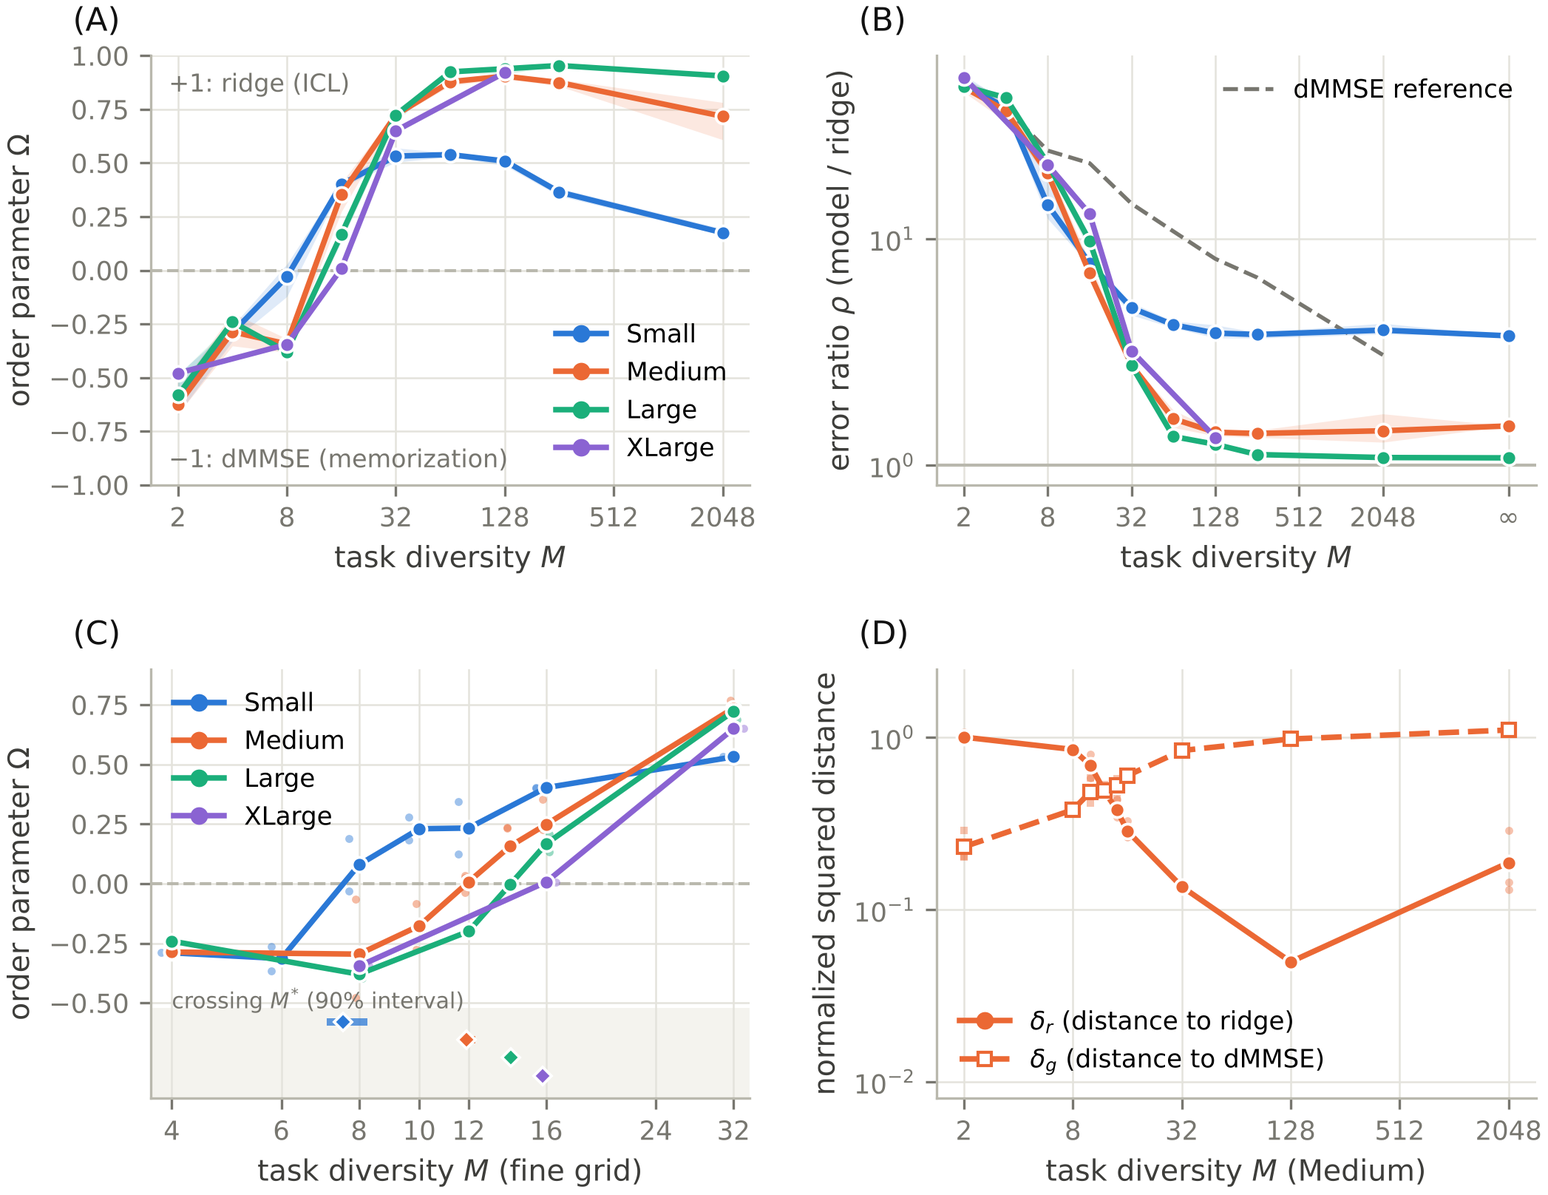
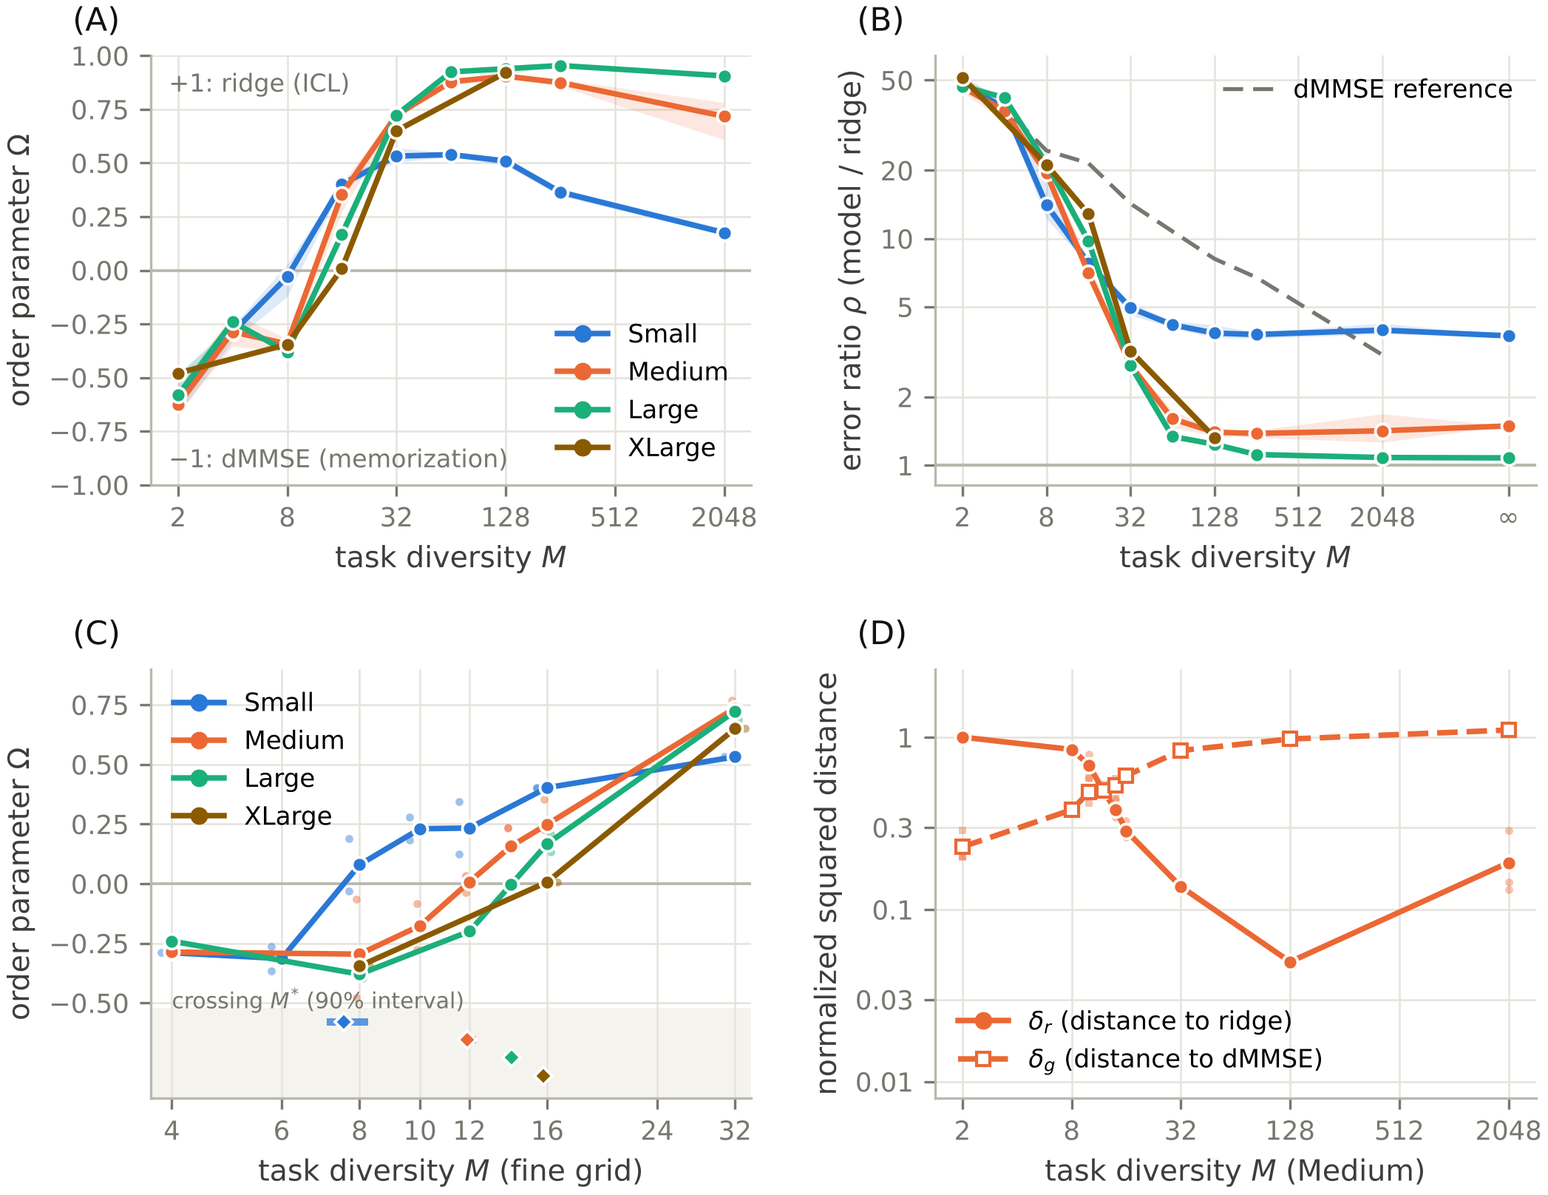
Five figures with one meaning per color
The demonstration analysis gets its own figure (Figure 2), so the figures
are renumbered 1 to 5. Architecture, pretraining diversity, and task family
each keep their own colors across figures, and log axes use plain-number
ticks. The README lists the new figure command.

diff --git a/code/rev_figs.py b/code/rev_figs.py
@@ -2,9 +2,15 @@
 
 Style: white background, DejaVu Sans, no in-figure titles, panel letters (A),
 (B), ... at the top left, light grid, no top/right spines, 1.8-pt lines,
-white-edged markers. Architectures keep fixed colors in every figure; task
-diversity uses an ordinal blue scale; task families use fixed colors.
-Usage: python3 rev_figs.py fig1 fig2 fig3 fig4"""
+white-edged markers. Each color has one meaning in every figure:
+  architectures   Small blue, Medium orange, Large aqua, XLarge brown;
+  task diversity  one ordinal magenta ramp, light (M = 2) to dark (M = 2048);
+  task families   dense linear in the Medium orange (dimension shown by line style
+                  and marker), sparse indigo, nonlinear black;
+  references      ridge and dMMSE as gray dashed lines; zero lines are thin and solid.
+The palettes pass the dataviz validator (categorical all-pairs for the architectures,
+ordinal checks for the diversity ramp).
+Usage: python3 rev_figs.py fig1 fig2 fig3 fig4 fig5"""
 import glob, json, math, os, re, sys
 import matplotlib
 matplotlib.use('Agg')
@@ -16,13 +22,14 @@ OUT = os.path.join(os.path.dirname(os.path.abspath(__file__)), 'figs')
 os.makedirs(OUT, exist_ok=True)
 
 INK, INK2, MUTED, GRID, BASE = '#111111', '#3d3d3a', '#77766f', '#e4e3dc', '#b9b8ad'
-ARCH = {'s': '#2a78d6', 'm': '#eb6834', 'l': '#1baf7a', 'xl': '#8a63d2',
-        'wd': '#b8860b', 'dp': '#6b4226'}
+ARCH = {'s': '#2a78d6', 'm': '#eb6834', 'l': '#1baf7a', 'xl': '#8a5a00'}
 ARCHNAME = {'s': 'Small', 'm': 'Medium', 'l': 'Large', 'xl': 'XLarge', 'wd': 'Wide', 'dp': 'Deep'}
-DIV = {2: '#9ec5f4', 4: '#7fb0ee', 8: '#5598e7', 12: '#3f88de', 16: '#2a78d6', 32: '#1c5cab',
-       64: '#14488a', 128: '#104281', 2048: '#0a2a55'}
-FAM = {'d2': '#9ec5f4', 'd4': '#2a78d6', 'd6': '#0a2a55', 'sparse': '#eb6834',
-       'nonlinear': '#c2185b'}
+DIV = {2: '#e393c6', 8: '#da74b7', 12: '#cc56a6', 16: '#b73e92', 32: '#9e2e7d',
+       64: '#832367', 128: '#671b51', 2048: '#4d133c'}
+DENSE = ARCH['m']                       # dense linear family (all runs are Medium)
+DSTYLE = {2: (':', '^'), 4: ('-', 'o'), 6: ('--', 's')}   # input dimension -> line, marker
+FAM = {'sparse': '#5343ac', 'nonlinear': '#111111'}
+REF = dict(color='#77766f', lw=1.3, ls=(0, (5, 2.5)))   # reference predictors (ridge, dMMSE)
 
 plt.rcParams.update({
     'font.family': 'DejaVu Sans', 'font.size': 9, 'axes.labelsize': 9.5,
@@ -45,6 +52,13 @@ def letter(ax, s):
 def log2x(ax, ticks):
     ax.set_xscale('log', base=2)
     ax.set_xticks(ticks, [str(t) for t in ticks])
+    ax.minorticks_off()
+
+
+def logy(ax, ticks):
+    """Logarithmic y axis with plain-number tick labels, shared by every log panel."""
+    ax.set_yscale('log')
+    ax.set_yticks(ticks, [f'{t:g}' for t in ticks])
     ax.minorticks_off()
 
 
@@ -91,18 +105,18 @@ def fig1():
         b.fill_between(rM, rlo, rhi, color=ARCH[size], alpha=0.15, lw=0)
     dm = [(M, ra.cell_finals('m', M, 'A')[0][1]) for M in grid if ra.cell_finals('m', M, 'A')]
     b.plot([M for M, _ in dm], [e['mse_fresh_dmmse'] / e['mse_fresh_ridge'] for _, e in dm],
-           '--', color=MUTED, lw=1.3, label='dMMSE reference')
-    a.axhline(0, color=BASE, lw=1, ls='--', zorder=1)
+           label='dMMSE reference', **REF)
+    a.axhline(0, color=BASE, lw=0.9, zorder=1)
     a.set_ylim(-1.0, 1.0); log2x(a, [2, 8, 32, 128, 512, 2048])
     a.set_xlabel('task diversity $M$'); a.set_ylabel(r'order parameter $\Omega$')
     a.text(0.03, 0.96, r'$+1$: ridge (ICL)', transform=a.transAxes, color=MUTED, va='top', fontsize=8)
     a.text(0.03, 0.04, r'$-1$: dMMSE (memorization)', transform=a.transAxes, color=MUTED, fontsize=8)
     a.legend(loc='lower right', ncol=1)
     b.axhline(1, color=BASE, lw=1)
-    b.set_yscale('log'); log2x(b, [2, 8, 32, 128, 512, 2048, 16384])
+    logy(b, [1, 2, 5, 10, 20, 50]); log2x(b, [2, 8, 32, 128, 512, 2048, 16384])
     b.set_xticks([2, 8, 32, 128, 512, 2048, 16384], ['2', '8', '32', '128', '512', '2048', r'$\infty$'])
     b.set_xlabel('task diversity $M$'); b.set_ylabel(r'error ratio $\rho$ (model / ridge)')
-    b.legend(loc='upper right', handles=[Line2D([], [], color=MUTED, ls='--', lw=1.3, label='dMMSE reference')])
+    b.legend(loc='upper right', handles=[Line2D([], [], label='dMMSE reference', **REF)])
     letter(a, 'A'); letter(b, 'B')
 
     # (C) fine-resolution boundary
@@ -124,7 +138,7 @@ def fig1():
             c.plot([mstar], [yoff], 'D', color=ARCH[size], ms=4.0, **MK, zorder=4)
     c.axhspan(-0.9, -0.52, color='#f4f3ee', zorder=0, lw=0)
     c.text(4.0, -0.545, r'crossing $M^{*}$ (90% interval)', color=MUTED, fontsize=7.2, va='bottom')
-    c.axhline(0, color=BASE, lw=1, ls='--', zorder=1)
+    c.axhline(0, color=BASE, lw=0.9, zorder=1)
     log2x(c, [4, 6, 8, 10, 12, 16, 24, 32]); c.set_xlim(3.7, 34)
     c.set_ylim(-0.9, 0.9); c.set_yticks([-0.5, -0.25, 0, 0.25, 0.5, 0.75])
     c.set_xlabel('task diversity $M$ (fine grid)'); c.set_ylabel(r'order parameter $\Omega$')
@@ -154,7 +168,7 @@ def fig1():
         d.plot(Ms, mr, '-o', color=ARCH['m'], label=r'$\delta_r$ (distance to ridge)', **MK, zorder=3)
         d.plot(Ms, mg, '--s', color=ARCH['m'], mfc='white', mec=ARCH['m'], mew=1.0, ms=4.2,
                label=r'$\delta_g$ (distance to dMMSE)', zorder=3)
-        d.set_yscale('log'); log2x(d, [2, 8, 32, 128, 512, 2048]); d.set_ylim(0.008, 2.5)
+        logy(d, [0.01, 0.03, 0.1, 0.3, 1]); log2x(d, [2, 8, 32, 128, 512, 2048]); d.set_ylim(0.008, 2.5)
         d.set_xlabel('task diversity $M$ (Medium)'); d.set_ylabel('normalized squared distance')
         d.legend(loc='lower left')
     letter(d, 'D')
@@ -162,8 +176,8 @@ def fig1():
     save(fig, 'fig1_phase_diagram.png')
 
 
-# ---------------------------------------------------------------- Figure 2
-def fig2():
+# ---------------------------------------------------------------- Figure 3
+def fig3():
     fig, (a, b, c) = plt.subplots(1, 3, figsize=(7.4, 2.75), gridspec_kw={'width_ratios': [1, 1.1, 1.05]})
     dy = {128: 0.02, 2048: -0.1, 8: 0.04, 2: -0.08}
     for M in (2, 8, 16, 32, 128, 2048):
@@ -171,7 +185,7 @@ def fig2():
         a.plot([e['step'] / 1000 for e in evs], [ra.om(e) for e in evs], '-', color=DIV[M], lw=1.7)
         a.annotate(f'$M={M}$', (20, ra.om(evs[-1]) + dy.get(M, 0)), xytext=(4, 0),
                    textcoords='offset points', color=DIV[M], fontsize=7.6, va='center')
-    a.axhline(0, color=BASE, lw=1, ls='--', zorder=1)
+    a.axhline(0, color=BASE, lw=0.9, zorder=1)
     a.set_ylim(-1, 1); a.set_xlim(0, 27.5); a.set_xticks([0, 5, 10, 15, 20])
     a.set_xlabel('training step (thousands)'); a.set_ylabel(r'order parameter $\Omega$')
     letter(a, 'A')
@@ -191,7 +205,7 @@ def fig2():
         if seed == 0:
             b.annotate(f'$M={M}$', (100, ra.om(evs[-1])), xytext=(4, 0), textcoords='offset points',
                        color=DIV[M], fontsize=8, va='center')
-    b.axhline(0, color=BASE, lw=1, ls='--', zorder=1)
+    b.axhline(0, color=BASE, lw=0.9, zorder=1)
     b.set_ylim(-1, 1); b.set_xlim(0, 118); b.set_xlabel('training step (thousands)')
     b.set_ylabel(r'order parameter $\Omega$')
     letter(b, 'B')
@@ -205,17 +219,17 @@ def fig2():
         c.plot([o20], [i], 'o', color='white', mec=ARCH[size], mew=1.3, ms=5)
         c.plot([o100], [i], 'o', color=ARCH[size], ms=5.4, **MK)
         labels.append(f'{ARCHNAME[size]} $M$={M} s{seed}')
-    c.axvline(0, color=BASE, lw=1, ls='--')
+    c.axvline(0, color=BASE, lw=0.9)
     c.set_yticks(range(len(labels)), labels, fontsize=7.2)
     c.set_xlim(-0.6, 1.0); c.set_xlabel(r'$\Omega$ at 20k (open) and 100k (filled)')
     c.grid(axis='y', visible=False)
     letter(c, 'C')
     fig.tight_layout(w_pad=1.4)
-    save(fig, 'fig2_dynamics_stability.png')
+    save(fig, 'fig3_dynamics_stability.png')
 
 
 
-# ---------------------------------------------------------------- Figure 3
+# ---------------------------------------------------------------- Figure 4
 def load_mech(tag, v2=True):
     """Probe trajectory and ablation records; v2 files carry zero and mean ablation."""
     p = os.path.join(ra.RES, (f'mech2_{tag}.jsonl' if v2 else f'mech_{tag}.jsonl'))
@@ -264,7 +278,7 @@ def top_head(ab, layer=0, mode='zero'):
     return max(c, key=lambda r: r['mse_ratio_vs_intact'])['head'] if c else None
 
 
-def fig3():
+def fig4():
     fig, axs = plt.subplots(2, 2, figsize=(7.2, 5.3))
     (a, b), (c, d) = axs
     for M in (2, 16, 2048):
@@ -278,7 +292,7 @@ def fig3():
         if runs:
             a.annotate(f'$M={M}$', (20, runs[0][1][-1]['omega']), xytext=(4, 0), textcoords='offset points',
                        color=DIV[M], fontsize=7.8, va='center')
-    a.axhline(0, color=BASE, lw=1, ls='--', zorder=1)
+    a.axhline(0, color=BASE, lw=0.9, zorder=1)
     a.set_xlim(0, 25.5); a.set_xticks([0, 5, 10, 15, 20]); a.set_ylim(-0.8, 0.9)
     a.set_xlabel('training step (thousands)'); a.set_ylabel(r'order parameter $\Omega$')
     a.legend(handles=[Line2D([], [], color=MUTED, lw=1.7, label='seed 0'),
@@ -311,10 +325,10 @@ def fig3():
                         ax.plot(range(1, len(vals) + 1), vals, '-o', mec='white', mew=0.6, **kw)
                     else:
                         ax.plot(range(1, len(vals) + 1), vals, '--o', mfc='white', mec=DIV[M], mew=0.9, **kw)
-        ax.set_yscale('log'); ax.axhline(1, color=BASE, lw=1)
+        logy(ax, [1, 2, 5, 10, 20, 50]); ax.axhline(1, color=BASE, lw=1)
         ax.set_xticks([1, 3, 6, 9, 12]); ax.set_xlabel('head rank (by ablation impact)')
-    c.set_ylabel('fresh-task error, ablated / intact')
-    d.set_ylabel('pool-context error, ablated / intact')
+    c.set_ylabel('relative fresh-task error')
+    d.set_ylabel('relative pool-context error')
     c.set_ylim(0.9, 60); d.set_ylim(0.9, 60)
     c.legend(handles=[Line2D([], [], color=DIV[M], lw=1.4, label=f'$M={M}$') for M in (2048, 16, 2)] +
              [Line2D([], [], color=MUTED, lw=1.2, marker='o', ms=3.6, mec=MUTED, label='zero-ablation'),
@@ -322,10 +336,10 @@ def fig3():
              loc='upper right', fontsize=7.2, handlelength=2.6)
     letter(c, 'C'); letter(d, 'D')
     fig.tight_layout(w_pad=2.0, h_pad=1.5)
-    save(fig, 'fig3_mechanism.png')
+    save(fig, 'fig4_mechanism.png')
 
 
-# ---------------------------------------------------------------- Figure 4
+# ---------------------------------------------------------------- Figure 5
 def family_curve(prefix_fn, Ms):
     xs, means, pts = [], [], []
     for M in Ms:
@@ -335,67 +349,95 @@ def family_curve(prefix_fn, Ms):
     return xs, means, pts
 
 
-def fig4():
-    fig, (a, b, c) = plt.subplots(1, 3, figsize=(7.4, 3.45))
-    a.axvspan(4, 16, color=FAM['sparse'], alpha=0.08, zorder=0)
-    a.text(8, 0.93, 'preregistered\nsparse interval', color=FAM['sparse'], fontsize=7, ha='center', va='top')
-    dense = {
-        2: lambda M: [f'd2_m_M{M}', f'd2_m_M{M}_s1', f'd2_m_M{M}_s2'],
-        4: lambda M: [f'm_M{M}', f'm_M{M}_s0', f'm_M{M}_s1', f'm_M{M}_s2'],
-        6: lambda M: [f'd6_m_M{M}', f'd6_m_M{M}_s1', f'd6_m_M{M}_s2'],
-    }
-    for d, fn in dense.items():
-        xs, means, _ = family_curve(fn, [2, 4, 8, 10, 12, 14, 16, 18, 20, 24, 28, 32, 64, 128])
-        a.plot(xs, means, '-o', color=FAM[f'd{d}'], ms=3.4, **MK, label=f'dense, $d={d}$', zorder=3)
+DENSE_RUNS = {
+    2: lambda M: [f'd2_m_M{M}', f'd2_m_M{M}_s1', f'd2_m_M{M}_s2'],
+    4: lambda M: [f'm_M{M}', f'm_M{M}_s0', f'm_M{M}_s1', f'm_M{M}_s2'],
+    6: lambda M: [f'd6_m_M{M}', f'd6_m_M{M}_s1', f'd6_m_M{M}_s2'],
+}
+
+
+def dense_line(ax, d, Ms, **kw):
+    ls, mk = DSTYLE[d]
+    xs, means, _ = family_curve(DENSE_RUNS[d], Ms)
+    ax.plot(xs, means, ls=ls, marker=mk, color=DENSE, ms=3.6, **MK, label=f'dense, $d={d}$', zorder=3, **kw)
+
+
+def fig5():
+    fig, (a, b) = plt.subplots(1, 2, figsize=(7.2, 3.3))
+    a.axvspan(4, 16, color=FAM['sparse'], alpha=0.07, zorder=0)
+    a.text(8, 0.93, 'preregistered\nsparse interval', color=INK2, fontsize=7, ha='center', va='top')
+    for d in (2, 4, 6):
+        dense_line(a, d, [2, 4, 8, 10, 12, 14, 16, 18, 20, 24, 28, 32, 64, 128])
     xs, means, pts = family_curve(lambda M: [f'sp_m_M{M}_s0', f'sp_m_M{M}_s1'], [2, 4, 8, 16, 32, 128])
-    a.plot(xs, means, '-o', color=FAM['sparse'], ms=3.6, **MK, label='sparse (held out)', zorder=4)
+    a.plot(xs, means, '-o', color=FAM['sparse'], ms=3.8, **MK, label='sparse (held out)', zorder=4)
     xs, means, pts = family_curve(lambda M: [f'spm_m_M{M}_s0', f'spm_m_M{M}_s1'], [4, 8, 16, 32, 64])
-    a.plot(xs, means, '--o', color=FAM['sparse'], ms=3.4, mfc='white', mec=FAM['sparse'], mew=1.0,
+    a.plot(xs, means, '--o', color=FAM['sparse'], ms=3.6, mfc='white', mec=FAM['sparse'], mew=1.0,
            label='sparse, signal-matched', zorder=4)
-    a.axhline(0, color=BASE, lw=1, ls='--', zorder=1)
+    a.axhline(0, color=BASE, lw=0.9, zorder=1)
     log2x(a, [2, 4, 8, 16, 32, 64, 128]); a.set_ylim(-1.0, 1.0)
     a.set_xlabel('task diversity $M$ (Medium)'); a.set_ylabel(r'order parameter $\Omega$')
-    a.legend(loc='upper center', bbox_to_anchor=(0.5, -0.24), ncol=2, fontsize=6.6, handlelength=1.8,
-             columnspacing=0.9)
+    a.legend(loc='upper center', bbox_to_anchor=(0.5, -0.22), ncol=2, fontsize=7.0, handlelength=2.4,
+             columnspacing=1.0)
     letter(a, 'A')
     xs, means, pts = family_curve(lambda M: [f'nl_m_M{M}', f'nl_m_M{M}_s1', f'nl_m_M{M}_s2'],
                                   [2, 4, 8, 16, 24, 32, 64, 128])
     for M, v in zip(xs, pts):
-        b.plot([M] * len(v), v, 'o', color=FAM['nonlinear'], ms=2.6, alpha=0.45, mew=0)
+        b.plot([M] * len(v), v, 'o', color=FAM['nonlinear'], ms=2.6, alpha=0.35, mew=0)
     for t in ('nlB_m_M16', 'nlC_m_M16'):
         e = ra.final(t)
         if e:
-            b.plot([16 * 1.06], [ra.om(e)], 'o', mfc='white', mec=FAM['nonlinear'], mew=0.9, ms=3.4, zorder=5)
+            b.plot([16 * 1.06], [ra.om(e)], 'o', mfc='white', mec=FAM['nonlinear'], mew=0.9, ms=3.6, zorder=5)
     b.plot(xs, means, '-o', color=FAM['nonlinear'], ms=3.8, **MK, label='nonlinear (random features)', zorder=4)
-    xd, md, _ = family_curve(dense[4], [2, 4, 8, 10, 12, 14, 16, 32, 64, 128])
-    b.plot(xd, md, '-o', color=FAM['d4'], ms=3.2, **MK, alpha=0.8, label='dense, $d=4$', zorder=3)
-    b.axhline(0, color=BASE, lw=1, ls='--', zorder=1)
+    dense_line(b, 4, [2, 4, 8, 10, 12, 14, 16, 32, 64, 128])
+    b.axhline(0, color=BASE, lw=0.9, zorder=1)
     log2x(b, [2, 4, 8, 16, 32, 64, 128]); b.set_ylim(-1.0, 1.0)
     b.set_xlabel('task diversity $M$ (Medium)'); b.set_ylabel(r'order parameter $\Omega$')
     b.legend(handles=[Line2D([], [], color=FAM['nonlinear'], marker='o', ms=3.8, mec='white', label='nonlinear (random features)'),
-                      Line2D([], [], color=FAM['nonlinear'], lw=0, marker='o', ms=3.4, mfc='white', mec=FAM['nonlinear'], label='nonlinear, other pools'),
-                      Line2D([], [], color=FAM['d4'], marker='o', ms=3.2, mec='white', label='dense, $d=4$')],
-             loc='upper center', bbox_to_anchor=(0.5, -0.24), ncol=1, fontsize=6.6, handlelength=1.8)
+                      Line2D([], [], color=FAM['nonlinear'], lw=0, marker='o', ms=3.6, mfc='white', mec=FAM['nonlinear'], label='nonlinear, other pools'),
+                      Line2D([], [], color=DENSE, marker='o', ms=3.6, mec='white', label='dense, $d=4$')],
+             loc='upper center', bbox_to_anchor=(0.5, -0.22), ncol=2, fontsize=7.0, handlelength=2.4,
+             columnspacing=1.0)
     letter(b, 'B')
+    fig.tight_layout(w_pad=2.2)
+    save(fig, 'fig5_families.png')
+
+
+# ---------------------------------------------------------------- Figure 2
+def fig2():
+    """Demonstration diversity at inference: error against the rank of the demonstration
+    inputs (A) and the reduction from rank one to rank four against pretraining diversity (B)."""
     p = os.path.join(ra.RES, 'rev_demo.json')
-    if os.path.exists(p):
-        res = [r for r in json.load(open(p)) if r['kind'] == 'rank']
-        byM, ridge = {}, {}
-        for r in res:
-            byM.setdefault(r['M'], {}).setdefault(r['level'], []).append(r['mse'])
-            ridge[r['level']] = r['mse_ridge']
-        for M in sorted(byM):
-            lv = sorted(byM[M])
-            c.plot(lv, [sum(byM[M][l]) / len(byM[M][l]) for l in lv], '-o', color=DIV.get(M, '#555555'),
-                   ms=3.4, **MK, label=f'$M={M}$', zorder=3)
-        lv = sorted(ridge)
-        c.plot(lv, [ridge[l] for l in lv], '--', color=INK2, lw=1.3, label='ridge (Bayes)', zorder=4)
-        c.set_yscale('log'); c.set_xticks([1, 2, 3, 4])
-        c.set_xlabel('rank of demonstration inputs'); c.set_ylabel('fresh-task error (MSE)')
-        c.legend(loc='upper center', bbox_to_anchor=(0.5, -0.24), ncol=3, fontsize=6.6, handlelength=1.6, columnspacing=0.8)
-    letter(c, 'C')
-    fig.tight_layout(w_pad=1.3)
-    save(fig, 'fig4_families.png')
+    res = [r for r in json.load(open(p)) if r['kind'] == 'rank']
+    byM, ridge = {}, {}
+    for r in res:
+        byM.setdefault(r['M'], {}).setdefault(r['level'], []).append(r['mse'])
+        ridge[r['level']] = r['mse_ridge']
+    fig, (a, b) = plt.subplots(1, 2, figsize=(7.2, 3.0), gridspec_kw={'width_ratios': [1, 1]})
+    for M in sorted(byM):
+        lv = sorted(byM[M])
+        a.plot(lv, [sum(byM[M][l]) / len(byM[M][l]) for l in lv], '-o', color=DIV[M], ms=3.8, **MK,
+               label=f'$M={M}$', zorder=3)
+    lv = sorted(ridge)
+    a.plot(lv, [ridge[l] for l in lv], label='ridge (Bayes)', zorder=4, **REF)
+    logy(a, [0.1, 0.2, 0.5, 1, 2, 5]); a.set_xticks([1, 2, 3, 4])
+    a.set_ylim(0.085, 8.5)
+    a.set_xlabel('rank of demonstration inputs'); a.set_ylabel('fresh-task error (MSE)')
+    a.legend(loc='lower left', ncol=2, fontsize=7.0, handlelength=2.0, columnspacing=0.9)
+    letter(a, 'A')
+    Ms = sorted(byM)
+    red = [(sum(byM[M][1]) / len(byM[M][1])) / (sum(byM[M][4]) / len(byM[M][4])) for M in Ms]
+    b.plot(Ms, red, '-', color=INK2, lw=1.0, zorder=2)
+    for M, v in zip(Ms, red):
+        b.plot([M], [v], 'o', color=DIV[M], ms=5.6, **MK, zorder=3)
+    b.axhline(ridge[1] / ridge[4], label='ridge (Bayes)', **REF)
+    logy(b, [1, 2, 5, 10, 20, 50]); log2x(b, [2, 8, 32, 128, 512, 2048])
+    b.set_ylim(0.8, 60)
+    b.set_xlabel('task diversity $M$ in pretraining')
+    b.set_ylabel('error reduction, rank 1 to rank 4')
+    b.legend(loc='upper left', handles=[Line2D([], [], label='ridge (Bayes)', **REF)])
+    letter(b, 'B')
+    fig.tight_layout(w_pad=2.4)
+    save(fig, 'fig2_demonstrations.png')
 
 if __name__ == '__main__':
     for name in sys.argv[1:]:

diff --git a/README.md b/README.md
@@ -15,7 +15,7 @@ draws, and it probes the attention heads that each solution relies on.
 
 This repository holds the code that produced every number, table, and figure in the manuscript;
 the raw evaluation log of each of the 212 training runs; the final weights of the 62 runs added in
-the revision; the checkpoints of the revision's instrumented runs; and the four figures.
+the revision; the checkpoints of the revision's instrumented runs; and the five figures.
 
 ## Contents
 
@@ -46,12 +46,12 @@ code/
                       demonstration diversity at inference, sparse-family reference distances
   rev_distinct.py     distinguishability of pool tasks (normalized dMMSE posterior entropy)
   rev_mech.py         mechanism summaries across seeds and architectures
-  rev_figs.py         Figures 1 to 4
+  rev_figs.py         Figures 1 to 5
   rev_tables.py       Tables 2 and 4 (LaTeX)
   requirements.txt    pinned package versions
   results/            logs (*.jsonl), analysis outputs (rev_*.json), final weights (final_*.pt),
                       and checkpoints (ckpt_*.pt)
-  figs/               Figures 1 to 4 as they appear in the manuscript
+  figs/               Figures 1 to 5 as they appear in the manuscript
 ```
 
 ## Requirements
@@ -70,16 +70,16 @@ A CPU is sufficient for everything, including training. The CPU-only build of Py
 These steps read the shipped logs and weights and need no training. Run them from `code/`:
 
 ```
-python3 rev_figs.py fig1 fig2 fig3 fig4   # Figures 1 to 4, written to figs/
-python3 rev_tables.py                      # Table 2 and Table 4 (LaTeX), printed
-python3 rev_analysis.py                    # every aggregate quoted in the text, printed by section
-python3 rev_mech.py                        # mechanism summaries (results/rev_mech_summary.json)
-python3 rev_infer.py boot                  # bootstrap standard errors (results/rev_boot.json)
-python3 rev_infer.py boot_paired           # paired standard errors (results/rev_boot_paired.json)
-python3 rev_infer.py demo                  # demonstration diversity (results/rev_demo.json)
-python3 rev_infer.py demo_summary          # the summary of rev_demo.json quoted in the text
-python3 rev_infer.py sparse                # sparse-family distances (results/rev_sparse.json)
-python3 rev_distinct.py                    # distinguishability (results/rev_distinct.json)
+python3 rev_figs.py fig1 fig2 fig3 fig4 fig5   # Figures 1 to 5, written to figs/
+python3 rev_tables.py                          # Table 2 and Table 4 (LaTeX), printed
+python3 rev_analysis.py                        # every aggregate quoted in the text, printed by section
+python3 rev_mech.py                            # mechanism summaries (results/rev_mech_summary.json)
+python3 rev_infer.py boot                      # bootstrap standard errors (results/rev_boot.json)
+python3 rev_infer.py boot_paired               # paired standard errors (results/rev_boot_paired.json)
+python3 rev_infer.py demo                      # demonstration diversity (results/rev_demo.json)
+python3 rev_infer.py demo_summary              # the summary of rev_demo.json quoted in the text
+python3 rev_infer.py sparse                    # sparse-family distances (results/rev_sparse.json)
+python3 rev_distinct.py                        # distinguishability (results/rev_distinct.json)
 ```
 
 Each command finishes in seconds to a few minutes on a laptop CPU. `rev_analysis.py table` (or
@@ -127,7 +127,7 @@ its wall-clock field (`secs`). Other hardware or library versions can change the
 ## Verification
 
 On a clean copy of this repository, with the pinned versions on a Linux x86 CPU, the commands
-above regenerate the four figures, the six analysis files in `results/`, and the probe output of
+above regenerate the five figures, the six analysis files in `results/`, and the probe output of
 `mech_s_M2` byte for byte, and they print Tables 2 and 4 exactly as they appear in the manuscript.
 Two runs retrained from scratch with one thread each, `s_M6_s0` (Small) and `m_M12_s0` (Medium),
 reproduced every logged value and their final weights bit for bit. The logs of the 62 revision runs
